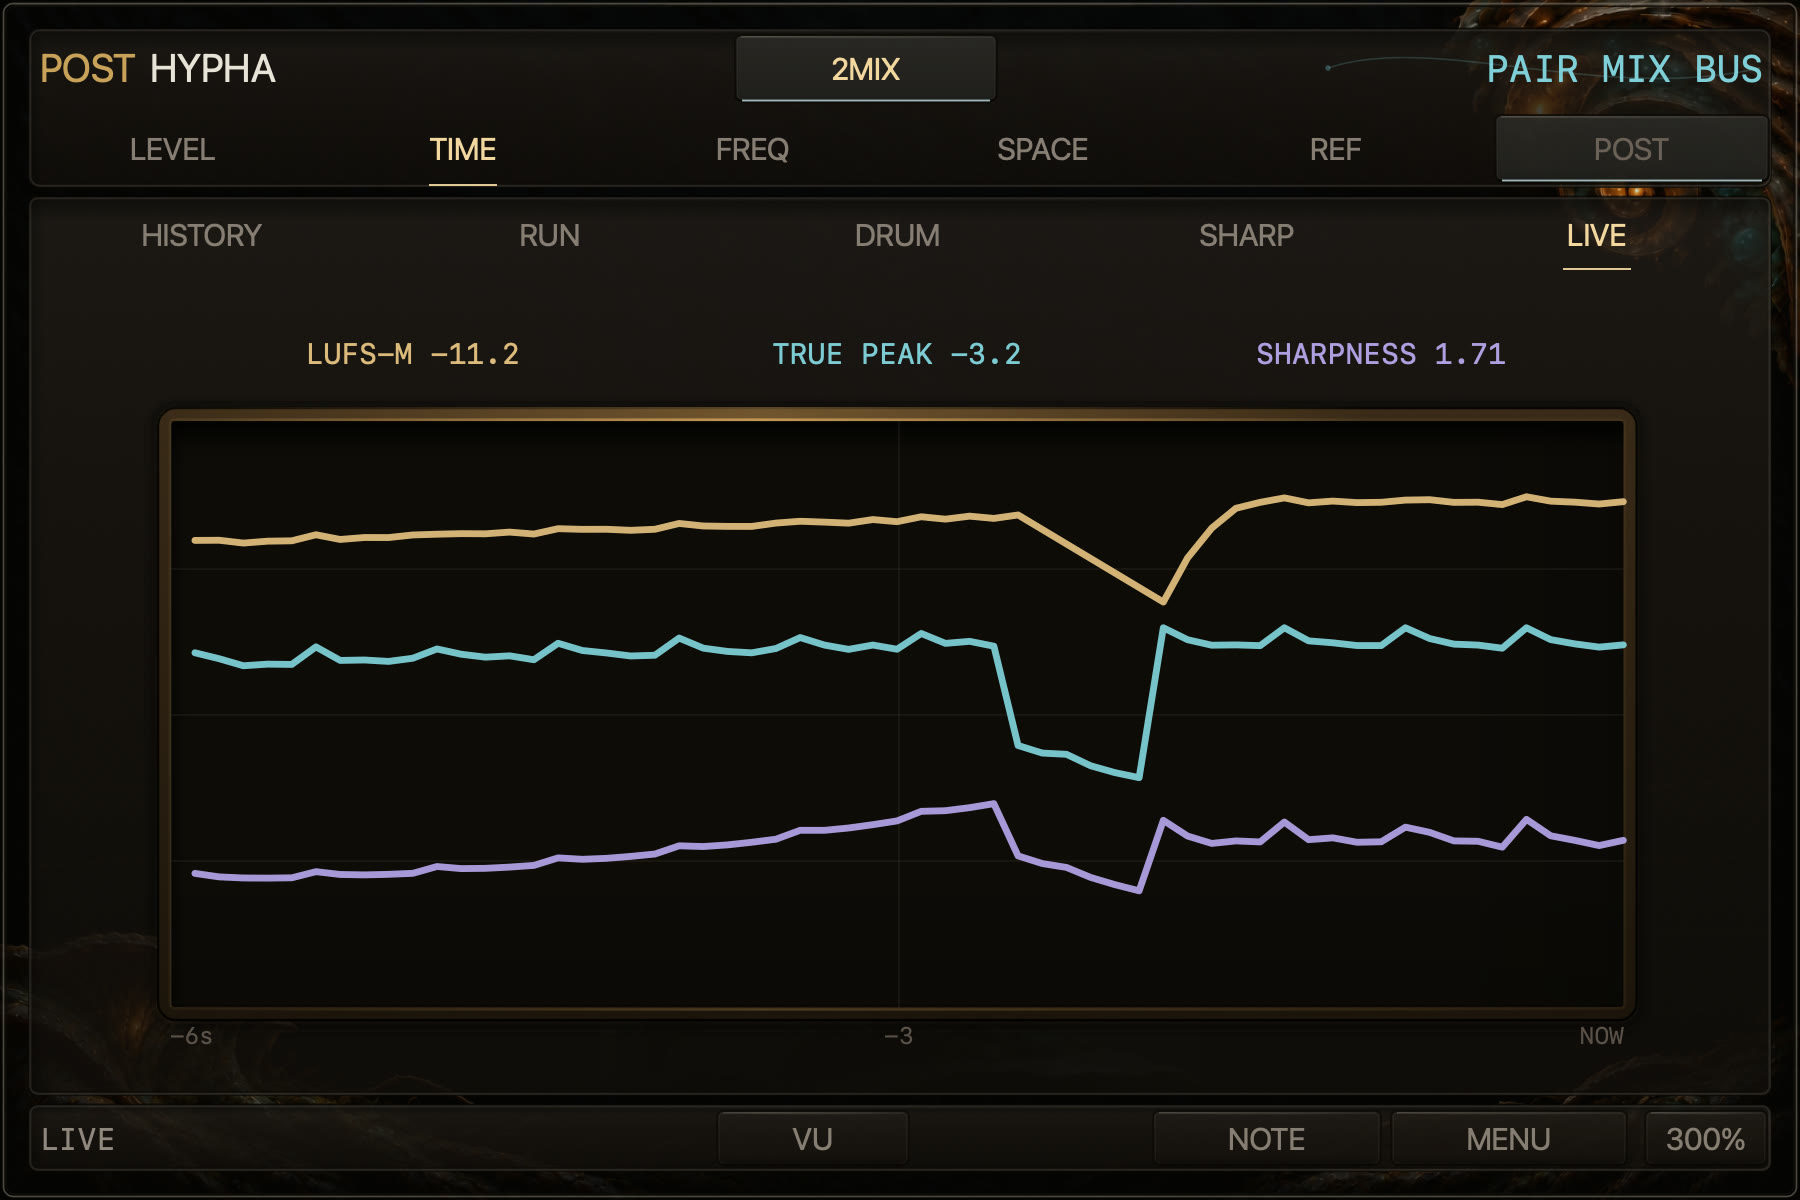
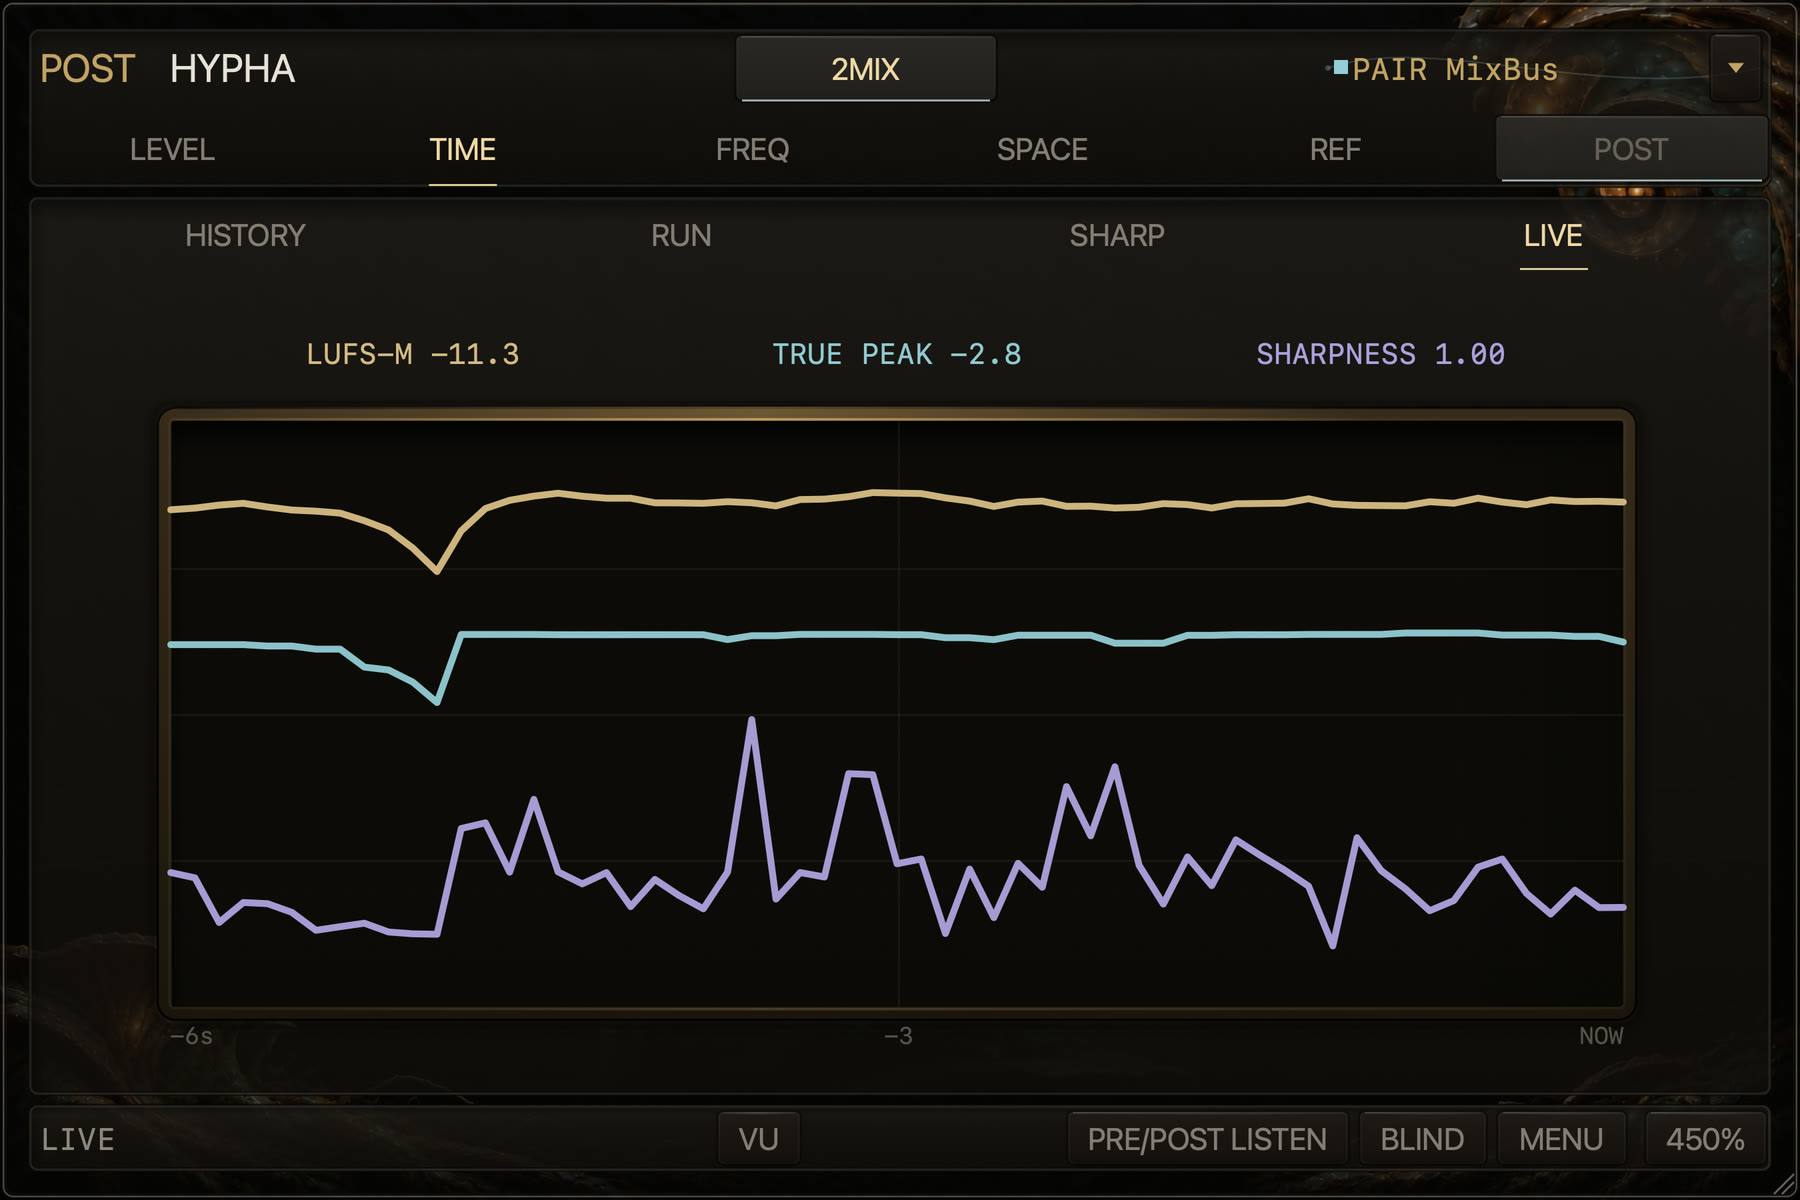
[B-1544] READMEの画像を、作り物のデータで描いた画面から、1.1.52で実際の曲を流して撮った画面に替える
VU・LEVEL・LISTEN・TIME・DRUM・SHARP・LIVE・FREQ・SPACE・BLIND・BLIND RESULTの11枚を、出荷したプラグインの英語の画面で実際の音楽を測った撮影（450%、2700×1800）から、今と同じ1800×1200に縮めて作る。値・線・針は描き直していない。
作り物の画面は、履歴の振れ幅が小さい、M/Sの分布が四角いぼかしになるなど、実際の音では出ない表示だった。動く案内も同じ撮影から作り直す。DRUMとTIMEは合成の図を外し、BANDの例だけを合成と明記して残す。
画像の照合の試験のSHA-256を更新する。Referenceの3枚は、この段では作り物のまま。

diff --git a/README.md b/README.md
@@ -68,7 +68,7 @@ Loudness (M / S / I), true peak, LRA, PLR and crest above a minute of history.
 Click a moment to hold it while measurement continues; step through every peak above −1 dBTP.
 </td>
 <td width="50%" valign="top">
-<img src="docs/media/readme/freq.jpg" alt="FREQ: six seconds of POST spectrum with peak hold">
+<img src="docs/media/readme/freq.jpg" alt="FREQ: the cyan difference POST − PRE over the PRE and POST spectra">
 <br><b>Which frequencies changed</b> · FREQ<br>
 PRE, POST and their difference in LR, MID or SIDE, with a six-second field and a Focus Trail for
 any frequency.
@@ -76,10 +76,10 @@ any frequency.
 </tr>
 <tr>
 <td width="50%" valign="top">
-<img src="docs/planning/hypha_drum_psr_g2_20261008/drum-v2-all-900-en.png" alt="DRUM example: per-hit transient, strength, crest and sharpness">
+<img src="docs/media/readme/drum.jpg" alt="DRUM on a drum track: one hit locked, its PRE and POST envelopes, and the transient, strength, crest and sharpness differences">
 <br><b>How the same drum hit changed</b> · TIME / DRUM<br>
 Every hit measured on PRE and POST: transient, strength, crest and sharpness. Pick an octave band
-to compare each hit's delay, attack, release and level. The example uses synthetic measurements.
+to compare each hit's delay, attack, release and level.
 </td>
 <td width="50%" valign="top">
 <img src="docs/media/readme/space.jpg" alt="SPACE: mid/side density, L/R balance, correlation and the mono sum">
@@ -89,7 +89,7 @@ Mid/side density, balance, correlation, and how much of each band survives the m
 </tr>
 <tr>
 <td width="50%" valign="top">
-<img src="docs/media/readme/listen.jpg" alt="Live PRE/POST compare: PRE playing at +1.8 dB with POST, MATCH and END in the footer">
+<img src="docs/media/readme/listen.jpg" alt="Live PRE/POST compare: LEVEL Δ after MATCH, with PRE selected and END in the footer">
 <br><b>Louder, or better?</b> · LISTEN<br>
 Hear the signal before or after your processing at a matched level, without stopping playback.
 Unverified timing keeps POST audible; the same comparison resumes after fresh proof.
@@ -118,8 +118,8 @@ place, at the same level.
 </table>
 
 <p align="center">
-<img src="docs/media/readme/tour.gif" width="760" alt="A tour of Kirin Hypha: LEVEL, TIME, FREQ, SPACE, Reference and PRE/POST Blind">
-<br><sub>A tour: LEVEL, TIME, FREQ, SPACE, Reference and PRE/POST Blind</sub>
+<img src="docs/media/readme/tour.gif" width="760" alt="A tour of Kirin Hypha: Hybrid VU, LEVEL, TIME, DRUM, FREQ, SPACE, LISTEN and PRE/POST Blind">
+<br><sub>A tour: Hybrid VU, LEVEL, TIME, DRUM, FREQ, SPACE, LISTEN and PRE/POST Blind</sub>
 </p>
 
 Also inside: the Hybrid VU with true-peak bars and clip lamps, the SHARP and LIVE timelines, the
@@ -323,9 +323,7 @@ TIME directly selects **HISTORY**, **RUN** (absolute facts grouped by playback r
 selected history), **DRUM** (per-hit attack, on a track or stem), signed **SHARP**, or three absolute
 **LIVE** facts. Only the selected optional analyzer runs.
 
-![TIME example: independent main HISTORY and secondary PSR](docs/planning/hypha_drum_psr_g2_20261008/time-900-en.png)
-
-This example shows synthetic measurements.
+![TIME HISTORY: M, S and TP over 30 seconds, with PLR, correlation and PSR below](docs/media/readme/time.jpg)
 
 DRUM answers one question: **how did processing change the same hit?** Put PRE before the
 processing chain and POST after it to compare POST − PRE; with POST alone, read the output hit's
@@ -1306,7 +1304,7 @@ PRE/POST assignment in one click, without a preference question or another playb
 switching after reveal, or press **END**. Live Blind does not collect preference answers, save a
 vote, learn from it, or change audio from it. No Kirin OS is required.
 
-![PRE/POST Blind after REVEAL: SOURCE 1 was PRE and SOURCE 2 was POST; switching continues until END](docs/media/readme/blind_result.jpg)
+![PRE/POST Blind after REVEAL: SOURCE 1 was POST and SOURCE 2 was PRE; switching continues until END](docs/media/readme/blind_result.jpg)
 
 Alternatively use **LISTEN → MATCH → BLIND**. A valid, fully applied MATCH is reused without
 another measurement; AUTO stops and the gain is frozen. TP LIMIT is not a full match. If matching
